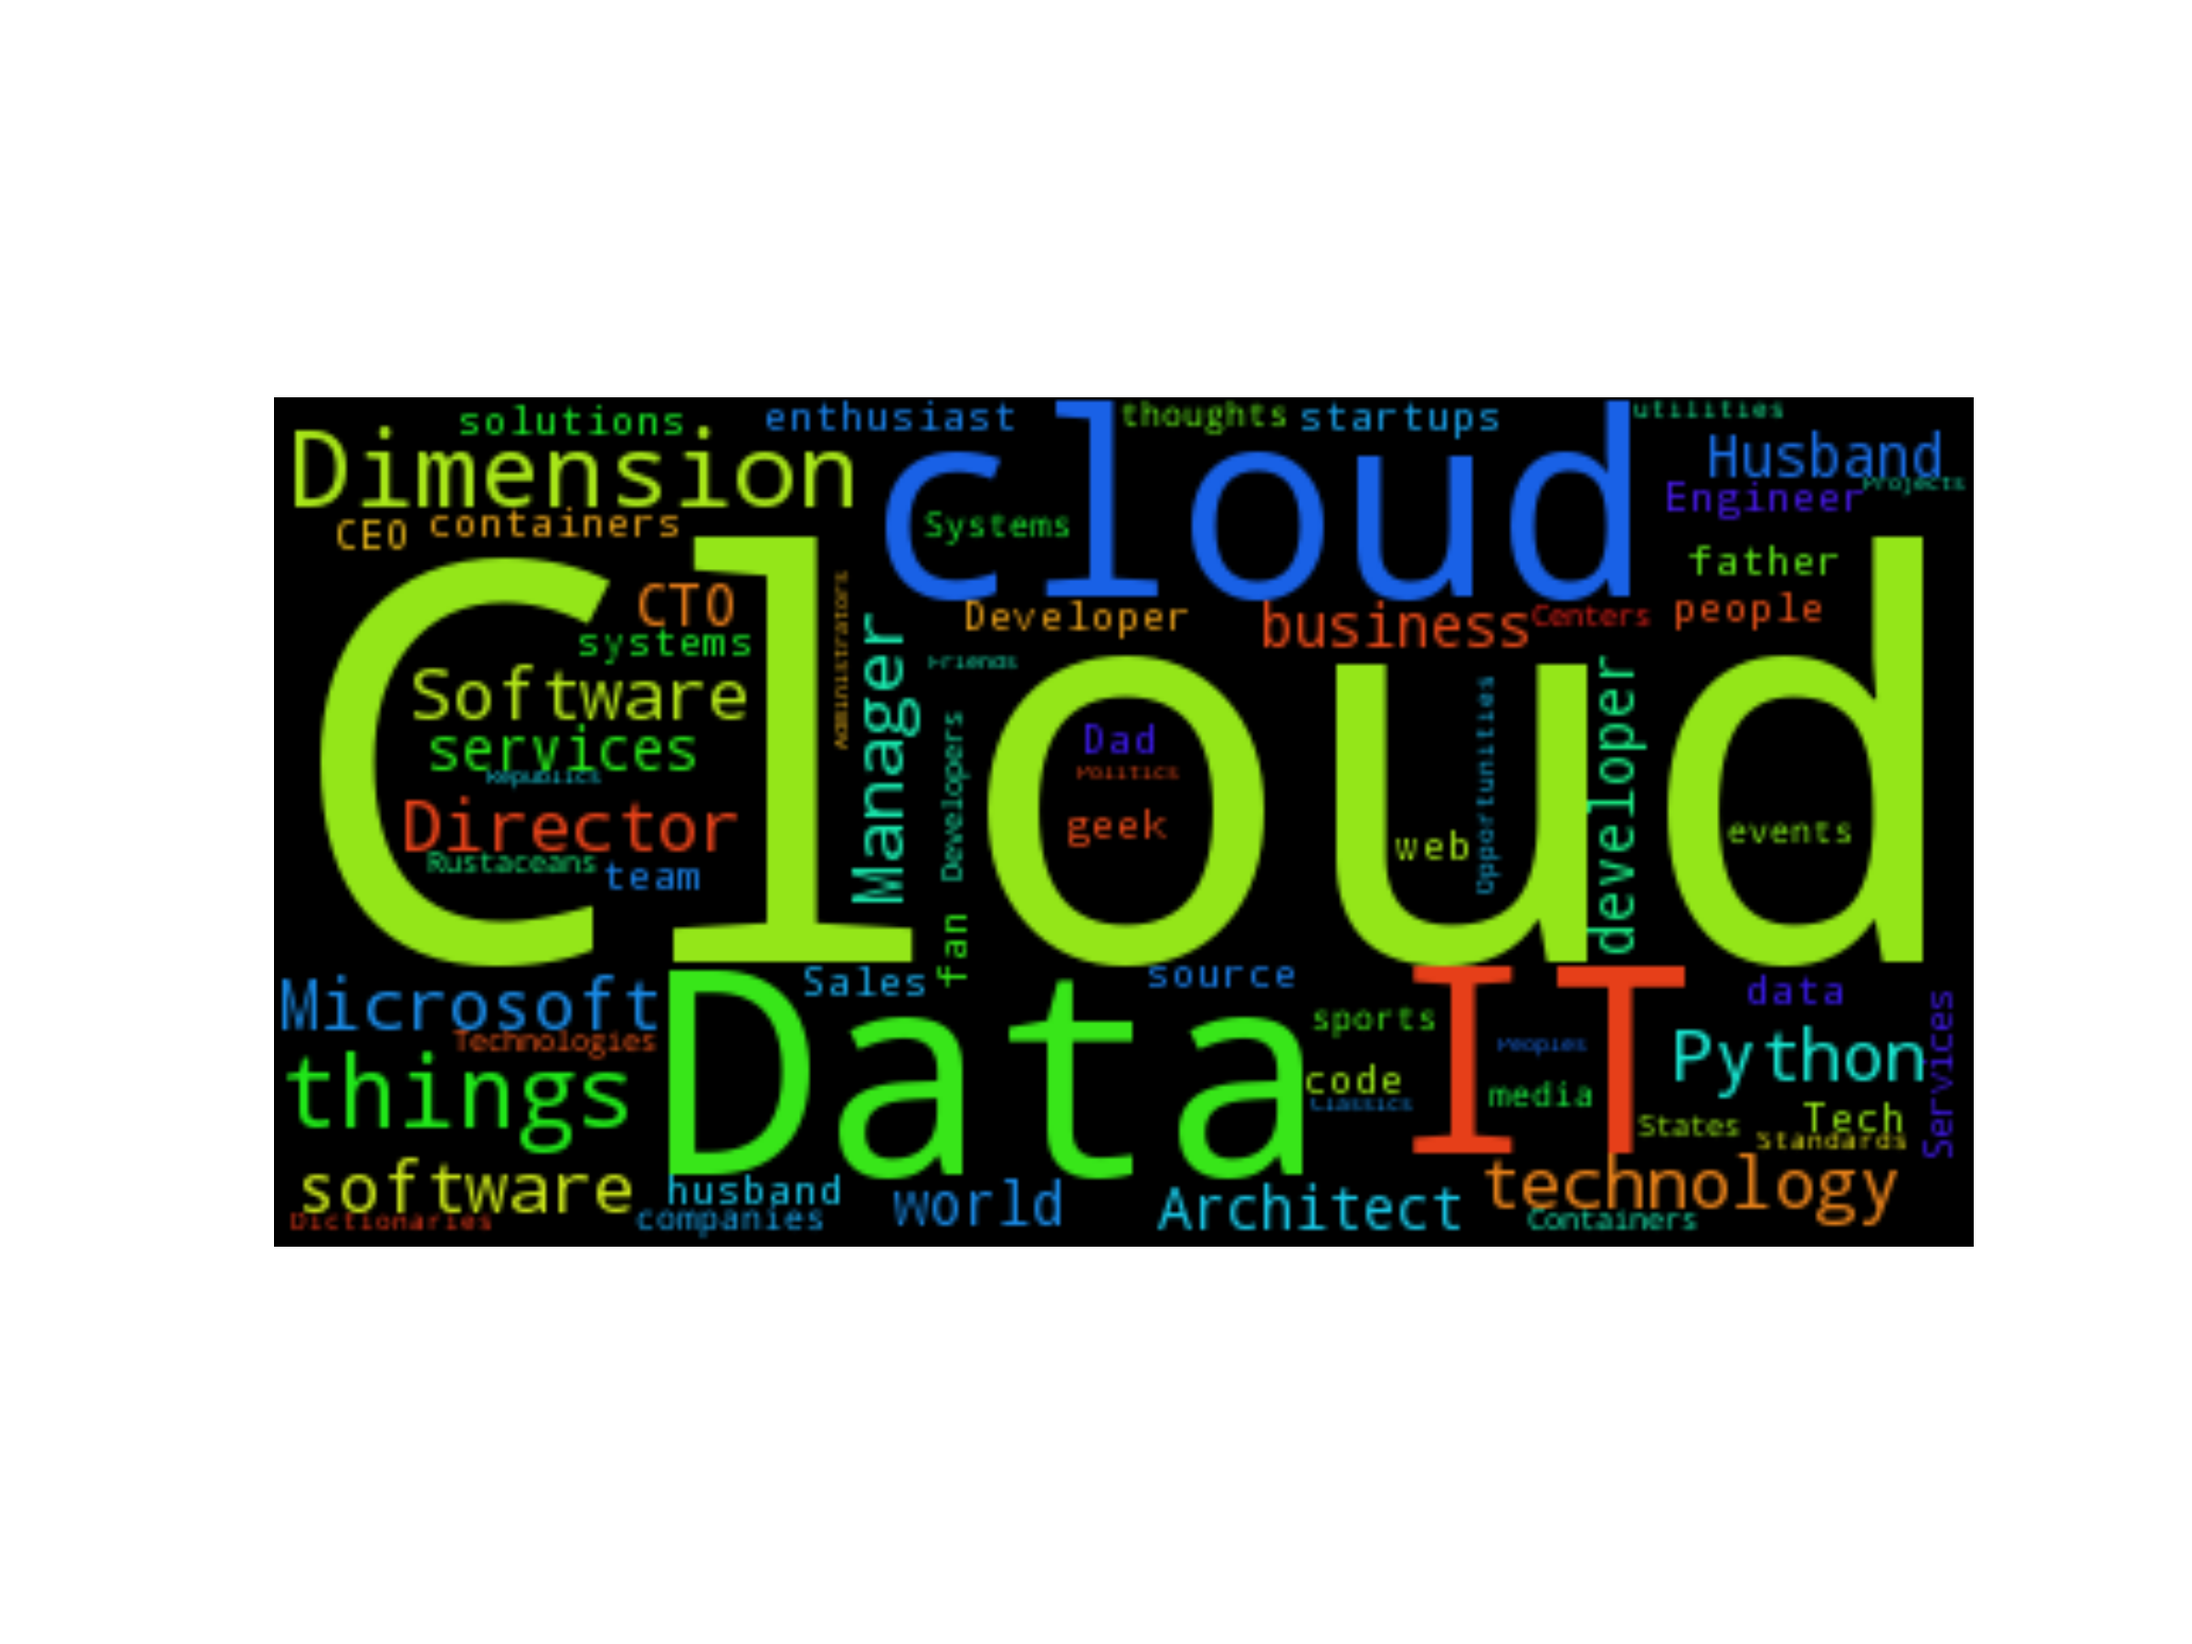
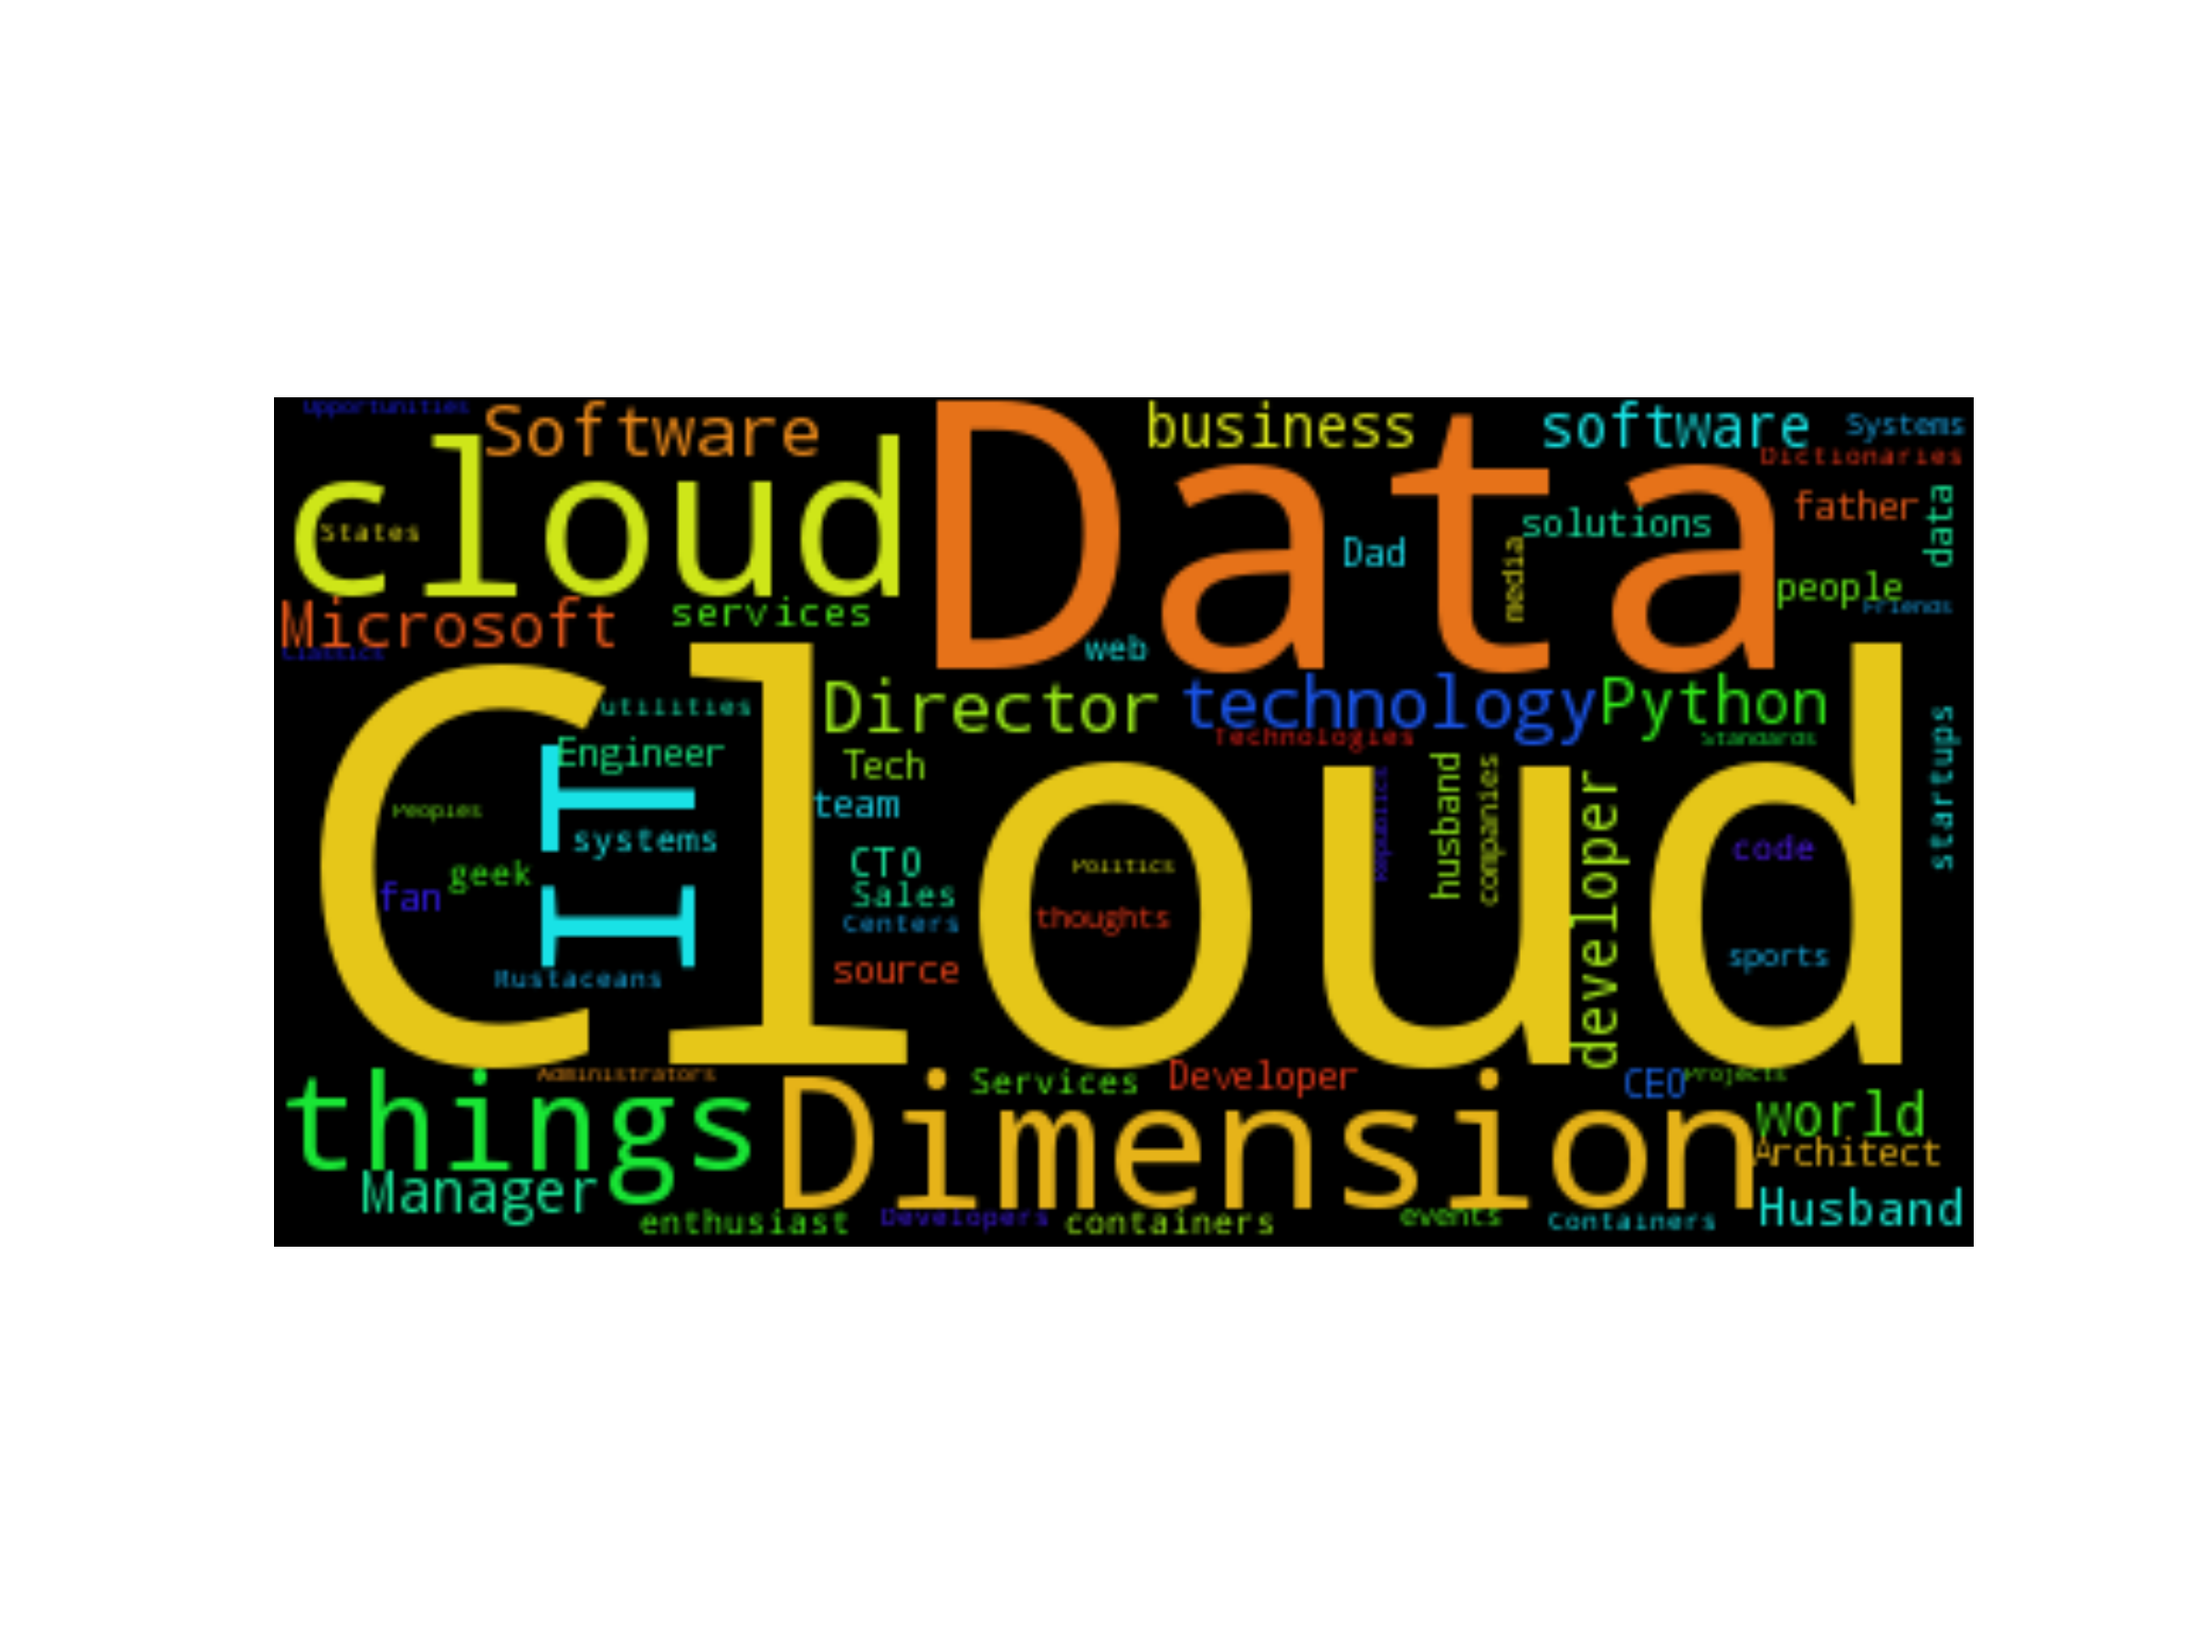
Improve matching pattern

Changed region(s): [[0.125, 0.2178, 0.9062, 0.7778]]

diff --git a/wntf/algorithm.py b/wntf/algorithm.py
@@ -8,6 +8,10 @@ from .graphs import word_cloud as graph
 
 class DiversityAlgorithm(object):
     def __init__(self, log):
+        '''
+        :param log: The `logging` instance
+        :type  log: Instance of the Python log
+        '''
         self.log = log
         with open('exclude_words.txt', 'r') as exclude:
             self.exclude_words = [line.rstrip() for line in exclude]
@@ -29,6 +33,16 @@ class DiversityAlgorithm(object):
     }
 
     def tag(self, lines):
+        '''
+        Tokenize and categorise the words in the collection of
+        text
+
+        :param lines: The list of strings with the text to match
+        :type  lines: ``list`` of ``str``
+
+        :rtype: :class:
+        :return:
+        '''
         try:
             tokenized_words = nltk.word_tokenize(lines)
             return nltk.pos_tag(tokenized_words)
@@ -37,18 +51,47 @@ class DiversityAlgorithm(object):
             raise le
 
     def nouns(self, tagged_text):
+        '''
+        Find all nouns in a collection of tagged text
+        '''
         self.log.debug('Collecting nouns')
         return self.findtags('NN', tagged_text)
 
     def findtags(self, tag_prefix, tagged_text):
+        '''
+        Find all words that match a 'tag' (word type) prefix
+
+        :param tag_prefix: The tag prefix
+        :type  tag_prefix: ``str``
+
+        :param tagged_text: The text to search
+        :type  tagged_text: ``list`` of ``dict``
+        '''
         cfd = nltk.ConditionalFreqDist((tag, word) for (word, tag) in tagged_text
             if tag.startswith(tag_prefix))
-        return dict((tag, cfd[tag].most_common(20)) for tag in cfd.conditions())
+        return dict((tag, cfd[tag].most_common(50)) for tag in cfd.conditions())
 
     def synsets(self, word):
+        '''
+        Get synsets for a given word
+
+        :param word: The word
+        :type  word: ``str``
+
+        :rtype: ``list`` of :class:`Synset`
+        '''
         return wordnet.synsets(word)
 
     def load_wheel(self, wheel, data_file):
+        '''
+        Load the data from a wheel data file
+
+        :param wheel: The target diversity wheel
+        :type  wheel: ``dict``
+
+        :param data_file: The path to the wheel data file
+        :type  data_file: ``str``
+        '''
         with open(data_file, 'r') as wheel_data:
             lines = wheel_data.readlines()
             if len(lines) == 0:
@@ -62,28 +105,60 @@ class DiversityAlgorithm(object):
         print(wheel['pattern'])
 
     def load_wheels(self):
+        '''
+        Load the data for all diversity wheels
+        '''
         for key, wheel in self.wheels.items():
             self.load_wheel(wheel, wheel['data'])
 
     def increment_pattern(self, pattern, word):
+        '''
+        A word has matched a pattern in a wheel, increment the match on the wheel
+        '''
         pattern['count'] = pattern['count'] + 1
         pattern['matches'].append(word)
 
     def match_wheel_word(self, wheel, hypernym):
+        '''
+        Try and match a word against a wheel
+
+        :param wheel: The target wheel
+        :type  wheel: ``dict``
+
+        :param hypernym: The word to match
+        :type  hypernym: ``str``
+
+        :rtype: ``bool``
+        :return: `True` if match, else `False`
+        '''
         for key, patterns in wheel['pattern'].items():
             if key == hypernym:
-                self.increment_pattern(wheel['pattern'], hypernym)
+                self.increment_pattern(patterns, hypernym)
                 return True
             if hypernym in patterns['words']:
-                self.increment_pattern(wheel['pattern'], hypernym)
+                self.increment_pattern(patterns, hypernym)
                 return True
         return False
 
     def match_wheel(self, wheel, synset, word):
+        '''
+        Attempt to match a keyword to a wheel
+
+        :param wheel: The target wheel
+        :type  wheel: ``dict`` wheel
+
+        :param synset: The word synset
+        :type  synset: :class:`Synset`
+
+        :param word: The target word
+        :type  word: ``str``
+
+        :rtype: ``bool``
+        :return: `True` if match, else `False`
+        '''
         # see if each hypernym matches a wheel
         for hypernym in synset.hypernyms():
             proper_name = hypernym.name().split('.')[:1][0]
-            self.log.debug('hypernym %s in %s', proper_name, word)
             if self.match_wheel_word(wheel, proper_name):
                 self.log.debug('matched %s to wheel', proper_name)
                 return True
@@ -119,7 +194,7 @@ class DiversityAlgorithm(object):
                         self.log.warning('%s was not found in the synsets', word)
 
         '''
-        TODO: 
+        TODO:
         - map those in a chord where the size of the difference between the angles in the chord represents the difference,
             e.g. carpenter is very different to IT, but banker is similar to accountant
         '''
